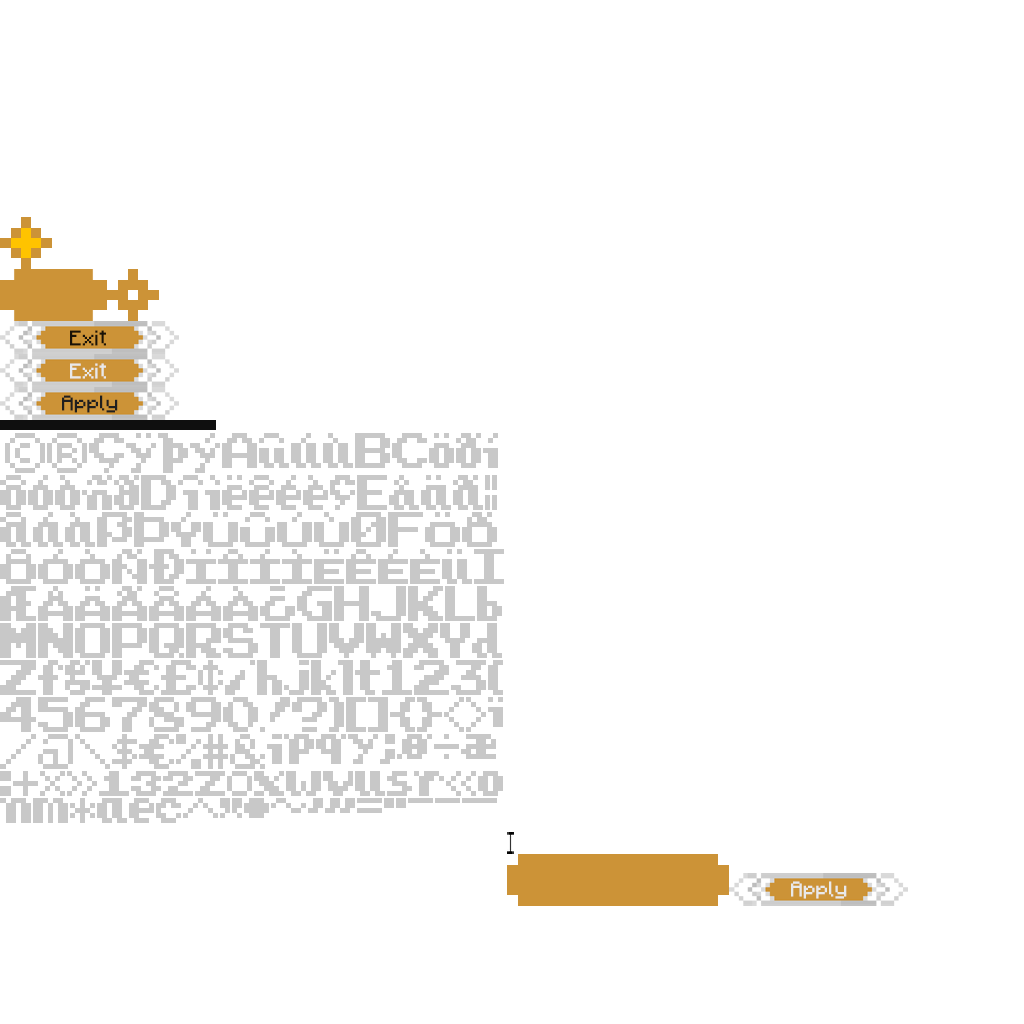
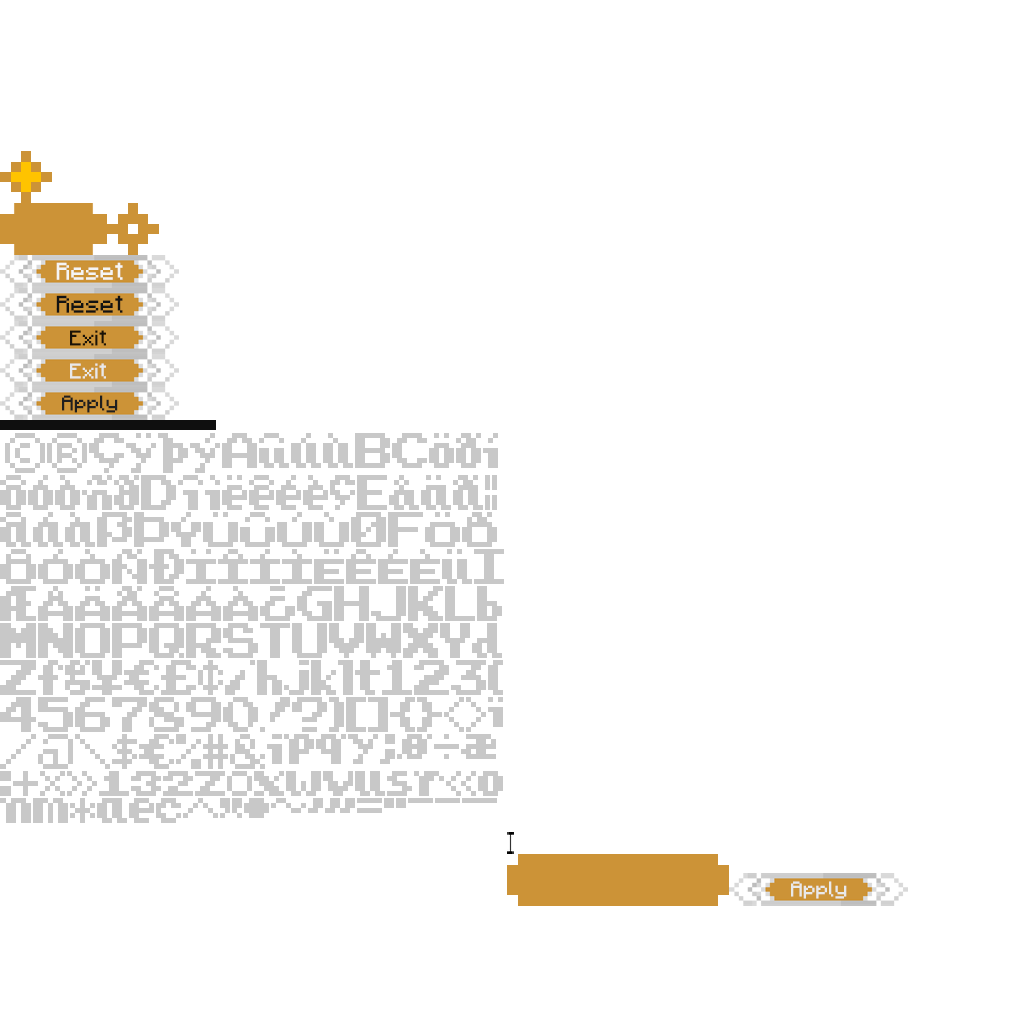
added reset progress button

Changed region(s): [[0.0, 0.1562, 0.1875, 0.3125]]

diff --git a/source/core/src/main/com/deco2800/game/components/settingsmenu/SettingsMenuDisplay.java b/source/core/src/main/com/deco2800/game/components/settingsmenu/SettingsMenuDisplay.java
@@ -104,6 +104,12 @@ public class SettingsMenuDisplay extends UIComponent {
         displayModeSelect.setItems(getDisplayModes(selectedMonitor));
         displayModeSelect.setSelected(getActiveMode(displayModeSelect.getItems()));
 
+
+
+        //create reset game button
+        Label resetLabel = new Label("Reset progress:", settingsSkin);
+        Button resetBtn = new Button(settingsSkin, "reset");
+
         // Position Components on table
         Table table = new Table();
 
@@ -137,6 +143,14 @@ public class SettingsMenuDisplay extends UIComponent {
                     uiScaleValue.setText(String.format("%.2fx", value));
                     return true;
                 });
+
+        table.row().padTop(10f);
+        table.add(resetLabel).right().padRight(15f);
+        table.add(resetBtn).left();
+        // Events on push
+
+//        resetBtn.addListener((Event event) -> {
+//                    });
 
         return table;
     }
